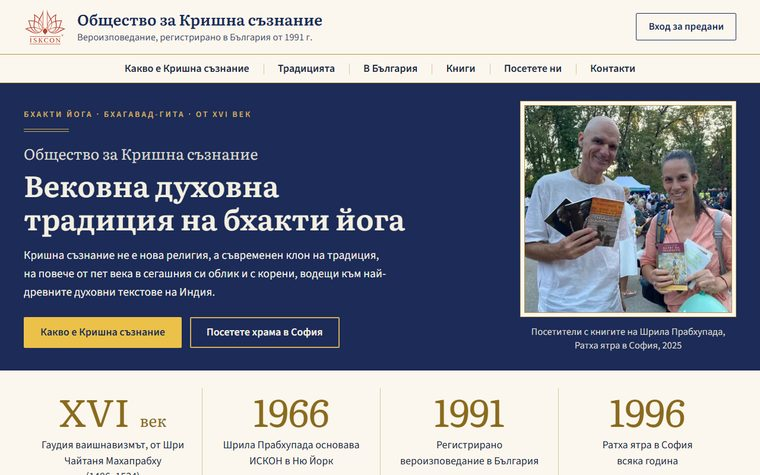
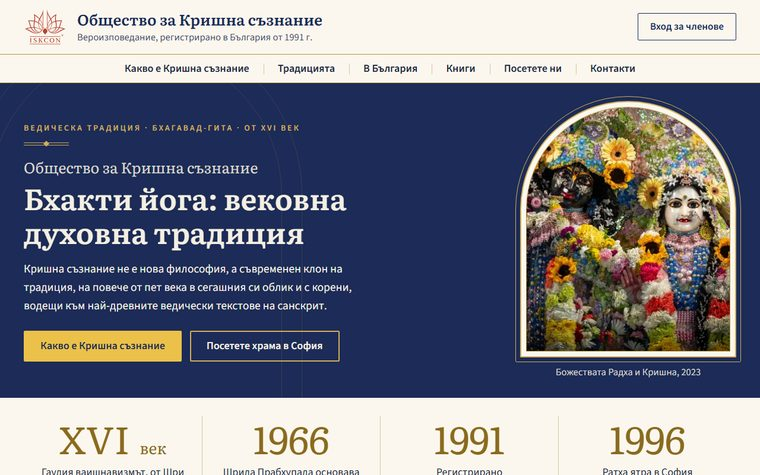
feat(krishnabg): посока 9 по втория отговор на Ралица: арката, заглавието и думите
Защо: Ралица, 21.10.2026: липсва „артистична уникалност“; снимката в първия екран да носи традицията; „Вековна бхакти йога духовна традиция“ или подобно; „философия“ вместо „религия“, „текстове“ вместо „писания“, друго име за „Вход за предани“; Курукшетра и Бхагавад-гита в хронологията; думите „санскрит“ и „ведически“.
Обхват: m9-vekovna-traditsia (index.html, za-nas.html, site.css): арка около олтара в първия екран, свод на синия раздел, ромб в линиите; заглавие „Бхакти йога: вековна духовна традиция“; олтарът в първия екран, книгите в „Традицията“; „Вход за членове“; първа спирка „Кришна и Бхагавад-гита“; index.html (описанието на посока 9), картинките ѝ.
Проверка: lab/run-all.py: НЕ МИНАХА: няма; страницата за сравнение на свободен порт: 70 връзки със 200, архивът скрит до бутона; bg_text_gate МИНА.

diff --git a/m9-vekovna-traditsia/index.html b/m9-vekovna-traditsia/index.html
@@ -3,11 +3,11 @@
 <head>
 <meta charset="utf-8">
 <meta name="viewport" content="width=device-width, initial-scale=1">
-<title>Общество за Кришна съзнание в България: вековна духовна традиция на бхакти йога</title>
+<title>Общество за Кришна съзнание в България: бхакти йога, вековна духовна традиция</title>
 <meta name="description" content="Вероизповедание от традицията на Гаудия ваишнавизма, регистрирано в България от 1991 г. Бхакти йога, Бхагавад-гита, храмът в София, книги и контакти.">
 <meta name="robots" content="noindex, nofollow">
 <meta property="og:type" content="website">
-<meta property="og:title" content="Общество за Кришна съзнание в България: вековна духовна традиция на бхакти йога">
+<meta property="og:title" content="Общество за Кришна съзнание в България: бхакти йога, вековна духовна традиция">
 <meta property="og:description" content="Вероизповедание от традицията на Гаудия ваишнавизма, регистрирано в България от 1991 г. Бхакти йога, Бхагавад-гита, храмът в София, книги и контакти.">
 <meta property="og:locale" content="bg_BG">
 <meta name="theme-color" content="#1C2B57">
@@ -20,7 +20,7 @@
 <header class="top">
 <div class="wrap hdr">
 <a class="brand" href="index.html" aria-label="Общество за Кришна съзнание, начална страница"><img src="assets/iskcon-logo.svg" alt="Лого на ИСКОН" width="72" height="67"><span><span class="nm">Общество за Кришна съзнание</span><span class="rg">Вероизповедание, регистрирано в България от&nbsp;1991&nbsp;г.</span></span></a>
-<a class="btn-line dsk" href="#vhod-predani">Вход за предани</a>
+<a class="btn-line dsk" href="#vhod-predani">Вход за членове</a>
 <details class="menu-m"><summary>Меню</summary>
 <nav class="panel" aria-label="Основна навигация (телефон)"><ul>
 <li><a href="za-nas.html">Какво е Кришна съзнание</a></li>
@@ -29,7 +29,7 @@
 <li><a href="#knigi">Книги</a></li>
 <li><a href="#poseteteni">Посетете ни</a></li>
 <li><a href="#kontakti">Контакти</a></li>
-<li><a href="#vhod-predani">Вход за предани</a></li>
+<li><a href="#vhod-predani">Вход за членове</a></li>
 </ul></nav></details>
 </div>
 <nav class="nav-d" aria-label="Основна навигация"><ul class="wrap">
@@ -45,14 +45,14 @@
 
 <section class="hero" aria-labelledby="h1"><div class="wrap hero-in">
 <div>
-<p class="eyebrow"><span class="nw">Бхакти йога&nbsp;·</span> <span class="nw">Бхагавад-гита&nbsp;·</span> <span class="nw">от XVI век</span></p>
+<p class="eyebrow"><span class="nw">Ведическа традиция&nbsp;·</span> <span class="nw">Бхагавад-гита&nbsp;·</span> <span class="nw">от XVI век</span></p>
 <span class="rule2" aria-hidden="true"></span>
-<h1 id="h1"><span class="h1s">Общество за Кришна съзнание</span><span class="h1b">Вековна духовна традиция на бхакти йога</span></h1>
-<p class="txt">Кришна съзнание не е нова религия, а съвременен клон на традиция, на повече от пет века в сегашния си облик и с корени, водещи към най-древните духовни текстове на Индия.</p>
+<h1 id="h1"><span class="h1s">Общество за Кришна съзнание</span><span class="h1b">Бхакти йога: вековна духовна традиция</span></h1>
+<p class="txt">Кришна съзнание не е нова философия, а съвременен клон на традиция, на повече от пет века в сегашния си облик и с корени, водещи към най-древните ведически текстове на санскрит.</p>
 <div class="btns"><a class="btn btn-y" href="za-nas.html">Какво е Кришна съзнание</a><a class="btn btn-o" href="#poseteteni">Посетете храма в София</a></div>
 </div>
-<figure class="fig"><div class="icon thin"><img src="assets/books-01-350.webp" srcset="assets/books-01-350.webp 350w, assets/books-01-525.webp 525w, assets/books-01-700.webp 700w" sizes="(min-width:900px) 350px, min(350px, calc(100vw - 46px))" alt="Двама усмихнати посетители на Ратха ятра в София показват книги на Шрила Прабхупада" width="350" height="350" fetchpriority="high" decoding="async"></div>
-<figcaption>Посетители с книгите на Шрила Прабхупада, Ратха ятра в София, 2025</figcaption></figure>
+<figure class="fig"><div class="icon arch"><img src="assets/altar-05-340.webp" srcset="assets/altar-05-340.webp 340w, assets/altar-05-520.webp 520w, assets/altar-05-700.webp 700w" sizes="(min-width:900px) 340px, min(340px, calc(100vw - 50px))" alt="Божествата Радха и Кришна, украсени със слънчогледи, маргарити и гирлянди" width="340" height="408" fetchpriority="high" decoding="async"></div>
+<figcaption>Божествата Радха и Кришна, 2023</figcaption></figure>
 </div></section>
 
 <section class="trust" aria-label="Факти и дати"><div class="wrap">
@@ -77,7 +77,7 @@
 <li><strong>Бог е личност.</strong> Вярваме, че Абсолютната Истина в крайна сметка е личност, изпълнена с любов, а не безлична сила.</li>
 <li><strong>Душата е вечна.</strong> Истинското „аз“ не загива със смъртта на тялото.</li>
 <li><strong>Бхакти: пътят на предаността.</strong> Любящото служене на Бога е същината на духовния живот.</li>
-<li><strong>Свещеното слово.</strong> Бхагавад-гита и Шримад Бхагаватам са нашите основни писания.</li>
+<li><strong>Свещеното слово.</strong> Бхагавад-гита и Шримад Бхагаватам са нашите основни текстове.</li>
 <li><strong>Ненасилие и състрадание.</strong> Вегетарианството и грижата за всички същества са естествена част от практиката.</li>
 </ul>
 </div>
@@ -90,15 +90,15 @@
 <div class="trad">
 <div class="trad-main">
 <ol class="stops">
-<li><h3>Кришна</h3><p>Изначалният източник на знанието и древните мъдреци, които го записват и предават.</p></li>
+<li><h3>Кришна и Бхагавад-гита</h3><p>На бойното поле Курукшетра Кришна предава на Арджуна Бхагавад-гита и възстановява прекъснатата традиция на бхакти йога.</p></li>
 <li><h3>Шри Чайтаня Махапрабху <span class="nw">(1486–1534)</span></h3><p>Възражда пътя на бхакти и движението на санкиртана в Бенгал.</p></li>
 <li><h3>Шрила Прабхупада <span class="nw">(1896–1977)</span></h3><p>По указание на своя учител пренася Кришна съзнание на Запад и основава <abbr title="Международно общество за Кришна съзнание">ИСКОН</abbr>.</p></li>
 <li><h3>България, 1991</h3><p>Регистрирано вероизповедание.</p></li>
 </ol>
 <blockquote class="quote"><span class="rule2" aria-hidden="true"></span><p>„Истинската религия означава да опознаем Бога и да Го обикнем, а средството за това в нашата епоха е възпяването на светите Му имена.“</p></blockquote>
 </div>
-<figure class="fig fig-alt"><div class="icon"><img src="assets/altar-05-340.webp" srcset="assets/altar-05-340.webp 340w, assets/altar-05-520.webp 520w, assets/altar-05-700.webp 700w" sizes="(min-width:900px) 340px, min(340px, calc(100vw - 50px))" alt="Божествата Радха и Кришна, украсени със слънчогледи, маргарити и гирлянди" width="340" height="408" loading="lazy" decoding="async"></div>
-<figcaption>Божествата Радха и Кришна, 2023</figcaption></figure>
+<figure class="fig fig-alt"><div class="icon thin"><img src="assets/books-01-350.webp" srcset="assets/books-01-350.webp 350w, assets/books-01-525.webp 525w, assets/books-01-700.webp 700w" sizes="(min-width:900px) 350px, min(350px, calc(100vw - 46px))" alt="Двама усмихнати посетители на Ратха ятра в София показват книги на Шрила Прабхупада" width="350" height="350" loading="lazy" decoding="async"></div>
+<figcaption>Книгите на Шрила Прабхупада предават знанието нататък: посетители на Ратха ятра в София, 2025</figcaption></figure>
 </div>
 </div></section>
 
@@ -133,7 +133,7 @@
 <div class="sh"><p class="eyebrow">За търсещите</p><span class="rule2" aria-hidden="true"></span><h2>Често задавани въпроси</h2></div>
 <div class="faq">
 <details open><summary>Кришна съзнание религия ли е, или начин на живот?</summary><div class="a"><p>И двете. Кришна съзнание е пълноценно монотеистично вероизповедание със свое богословие, практика и свещени текстове, което същевременно се изразява в цялостен начин на живот.</p></div></details>
-<details><summary>Трябва ли да съм индиец или да приема индийската култура?</summary><div class="a"><p>Не. Изповеданието е открито за всеки човек, независимо от произход. То не изисква приемане на чужда култура, а съживяване на вродената връзка на душата с Бога.</p></div></details>
+<details><summary>Трябва ли да съм индиец или да приема индийската култура?</summary><div class="a"><p>Не. Кришна съзнание е открито за всеки човек, независимо от произход. То не изисква приемане на чужда култура, а съживяване на вродената връзка на душата с Бога.</p></div></details>
 <details><summary>В колко богове вярвате?</summary><div class="a"><p>В един. Признаваме един-единствен Върховен Бог, който има безброй имена и форми. „Кришна“ е едно от имената Му, означаващо „всепривличащият“.</p></div></details>
 <details><summary>Трябва ли да се откажа от своята религия?</summary><div class="a"><p>Кришна съзнанието не противоречи на искреното следване на която и да е автентична религия, напротив, уважава всеки път, който води човека към любов към Бога.</p></div></details>
 <details><summary>Мога ли да посетя център, без да съм член?</summary><div class="a"><p>Разбира се. Програмите, лекциите и класовете са открити за гости. Заповядайте, за да се запознаете отблизо с традицията.</p></div></details>
@@ -143,7 +143,7 @@
 
 <section class="sec cream" id="knigi"><div class="wrap">
 <div class="sh"><p class="eyebrow">Книги</p><span class="rule2" aria-hidden="true"></span><h2>Свещената литература</h2>
-<p class="lead">Книгите на Шрила Прабхупада, издавани от Бхактиведанта бук тръст, са основата на нашето изповедание. Открийте Бхагавад-гита, Шримад Бхагаватам и десетки други заглавия на български език.</p></div>
+<p class="lead">Книгите на Шрила Прабхупада, издавани от Бхактиведанта бук тръст, са основата на нашата философия. Открийте Бхагавад-гита, Шримад Бхагаватам и десетки други заглавия на български език.</p></div>
 <ul class="books">
 <li><h3>Бхагавад-гита каквато е</h3><p>Най-известният и почитан духовен текст на Индия (разговорът между Кришна и Арджуна) с пълен санскритски текст, превод и подробен коментар на Шрила Прабхупада.</p></li>
 <li><h3>Шримад Бхагаватам</h3><p>„Зрелият плод на ведическото дърво на знанието.“ Многотомно издание с превод и коментар, разкриващо науката за Бога и пътя на чистата преданост.</p></li>
@@ -199,8 +199,8 @@
 <li><a href="#poseteteni">Посетете ни</a></li>
 <li><a href="#kontakti">Контакти</a></li>
 </ul></nav>
-<p class="fvhod" id="vhod-predani">Вход за предани: в подготовка.</p>
-<div class="fine"><p>Снимки: ИСКОН София (iskconsofia.com)</p><p>Прототип за обсъждане, 18.10.2026</p></div>
+<p class="fvhod" id="vhod-predani">Вход за членове: в подготовка.</p>
+<div class="fine"><p>Снимки: ИСКОН София (iskconsofia.com)</p><p>Прототип за обсъждане, 23.10.2026</p></div>
 </div></footer>
 </body>
 </html>

diff --git a/m9-vekovna-traditsia/za-nas.html b/m9-vekovna-traditsia/za-nas.html
@@ -4,11 +4,11 @@
 <meta charset="utf-8">
 <meta name="viewport" content="width=device-width, initial-scale=1">
 <title>Какво е Кришна съзнание | Общество за Кришна съзнание</title>
-<meta name="description" content="Кришна съзнание означава да живеем с осъзнаване на връзката си с Бога. Основите на учението накратко: Бог, душата, бхакти и свещените писания.">
+<meta name="description" content="Кришна съзнание означава да живеем с осъзнаване на връзката си с Бога. Основите на учението накратко: Бог, душата, бхакти и свещените текстове.">
 <meta name="robots" content="noindex, nofollow">
 <meta property="og:type" content="website">
 <meta property="og:title" content="Какво е Кришна съзнание | Общество за Кришна съзнание">
-<meta property="og:description" content="Кришна съзнание означава да живеем с осъзнаване на връзката си с Бога. Основите на учението накратко: Бог, душата, бхакти и свещените писания.">
+<meta property="og:description" content="Кришна съзнание означава да живеем с осъзнаване на връзката си с Бога. Основите на учението накратко: Бог, душата, бхакти и свещените текстове.">
 <meta property="og:locale" content="bg_BG">
 <meta name="theme-color" content="#1C2B57">
 <link rel="icon" type="image/png" href="assets/favicon-iskcon.png">
@@ -20,7 +20,7 @@
 <header class="top">
 <div class="wrap hdr">
 <a class="brand" href="index.html" aria-label="Общество за Кришна съзнание, начална страница"><img src="assets/iskcon-logo.svg" alt="Лого на ИСКОН" width="72" height="67"><span><span class="nm">Общество за Кришна съзнание</span><span class="rg">Вероизповедание, регистрирано в България от&nbsp;1991&nbsp;г.</span></span></a>
-<a class="btn-line dsk" href="#vhod-predani">Вход за предани</a>
+<a class="btn-line dsk" href="#vhod-predani">Вход за членове</a>
 <details class="menu-m"><summary>Меню</summary>
 <nav class="panel" aria-label="Основна навигация (телефон)"><ul>
 <li><a href="za-nas.html" aria-current="page">Какво е Кришна съзнание</a></li>
@@ -29,7 +29,7 @@
 <li><a href="index.html#knigi">Книги</a></li>
 <li><a href="index.html#poseteteni">Посетете ни</a></li>
 <li><a href="#kontakti">Контакти</a></li>
-<li><a href="#vhod-predani">Вход за предани</a></li>
+<li><a href="#vhod-predani">Вход за членове</a></li>
 </ul></nav></details>
 </div>
 <nav class="nav-d" aria-label="Основна навигация"><ul class="wrap">
@@ -58,14 +58,14 @@
 </aside>
 <div class="rest">
 <p>„Кришна“ е едно от имената на Бога в санскритската традиция и означава „всепривличащият“: този, който е източник на всичко и притежава в пълнота красотата, силата, славата, богатството, знанието и отречението. Да си в „Кришна съзнание“ не означава да приемеш чужда култура, а да съживиш нещо вродено: всяка душа по природа е свързана с Бога и търси трайно щастие, което материалният свят не може да даде.</p>
-<p>Нашето изповедание учи, че живото същество не е тялото, а вечна духовна искра: душа, която преминава през различни тела и прераждания, водена от закона на кармата. Целта на човешкия живот е да се събуди от това забравяне и да възстанови любящата си връзка с Бога. Методът, който традицията предлага за днешната епоха, е изненадващо прост и достъпен: възпяването на светите имена на Бога, особено на маха-мантрата „Харе Кришна“.</p>
+<p>Нашата философия учи, че живото същество не е тялото, а вечна духовна искра: душа, която преминава през различни тела и прераждания, водена от закона на кармата. Целта на човешкия живот е да се събуди от това забравяне и да възстанови любящата си връзка с Бога. Методът, който традицията предлага за днешната епоха, е изненадващо прост и достъпен: възпяването на светите имена на Бога, особено на маха-мантрата „Харе Кришна“.</p>
 <p>Кришна съзнанието е монотеистична традиция: признаваме един-единствен Върховен Бог, който има безброй имена и форми. То не противоречи на искреното следване на която и да е автентична религия, напротив, уважава всеки път, който води човека към любов към Бога. Същевременно е цялостна духовна наука със свое богословие, етика, практика и начин на живот, предадени през непрекъсната верига от учители.</p>
 <h2>Какво ни отличава</h2>
 <ul class="dia">
 <li><strong>Бог е личност.</strong> Вярваме, че Абсолютната Истина в крайна сметка е личност, изпълнена с любов, а не безлична сила.</li>
 <li><strong>Душата е вечна.</strong> Истинското „аз“ не загива със смъртта на тялото.</li>
 <li><strong>Бхакти: пътят на предаността.</strong> Любящото служене на Бога е същината на духовния живот.</li>
-<li><strong>Свещеното слово.</strong> Бхагавад-гита и Шримад Бхагаватам са нашите основни писания.</li>
+<li><strong>Свещеното слово.</strong> Бхагавад-гита и Шримад Бхагаватам са нашите основни текстове.</li>
 <li><strong>Ненасилие и състрадание.</strong> Вегетарианството и грижата за всички същества са естествена част от практиката.</li>
 </ul>
 <p class="gofaq"><a class="btn-line" href="index.html#vaprosi">Често задавани въпроси</a></p>
@@ -93,8 +93,8 @@
 <li><a href="index.html#poseteteni">Посетете ни</a></li>
 <li><a href="#kontakti">Контакти</a></li>
 </ul></nav>
-<p class="fvhod" id="vhod-predani">Вход за предани: в подготовка.</p>
-<div class="fine"><p>Снимки: ИСКОН София (iskconsofia.com)</p><p>Прототип за обсъждане, 18.10.2026</p></div>
+<p class="fvhod" id="vhod-predani">Вход за членове: в подготовка.</p>
+<div class="fine"><p>Снимки: ИСКОН София (iskconsofia.com)</p><p>Прототип за обсъждане, 23.10.2026</p></div>
 </div></footer>
 </body>
 </html>

diff --git a/index.html b/index.html
@@ -79,11 +79,11 @@ footer{padding:2rem 0 5rem}
 </header>
 <main id="main">
   <section class="featured wrap" aria-labelledby="new-h">
-    <h2 id="new-h">Нова посока по бележките на Ралица (18.10.2026)</h2>
+    <h2 id="new-h">Нова посока по бележките на Ралица (18.10.2026, обновена на 23.10.2026)</h2>
     <ul class="why">
-      <li><b>За 10 секунди:</b> вековна духовна традиция на бхакти йога, регистрирано вероизповедание от 1991 г., част от ИСКОН от 1966 г., Ратха ятра в София от 1996 г.</li>
-      <li><b>Синьо, жълто и злато:</b> цветовете от традицията, спокойни, с много въздух.</li>
-      <li><b>Спокойни снимки:</b> олтарът в златна рамка, шествието, публиката и книгите; без танци и тълпи в първия екран.</li>
+      <li><b>За 10 секунди:</b> „Бхакти йога: вековна духовна традиция“, регистрирано вероизповедание от 1991 г., част от ИСКОН от 1966 г., Ратха ятра в София от 1996 г.</li>
+      <li><b>Синьо, жълто и злато, и арката:</b> олтарът в първия екран е в златна арка като в ниша, а синият раздел „Традицията“ започва със свод.</li>
+      <li><b>Снимки:</b> олтарът в първия екран, книгите в „Традицията“, шествието и публиката в „В България“; без танци и тълпи.</li>
       <li><b>Доверие:</b> правният статут, въпросите на хората и линията на учителите са на началната страница.</li>
     </ul>
     <div class="board" id="featured-board"></div>

diff --git a/m9-vekovna-traditsia/assets/site.css b/m9-vekovna-traditsia/assets/site.css
@@ -297,3 +297,18 @@ ul,ol,dl,dd{margin:0;padding:0}
 /* Обикновените форми на кирилицата (не българските) за широка, непозната публика.
    Съкратеното „font:“ нулира font-feature-settings, затова правилото е последно и с !important. */
 *,*::before,*::after{font-feature-settings:"locl" 0 !important}
+
+/* Арката: подписът на посоката (форма от храма и от църквата: ниша, свод) */
+.icon.arch{position:relative;padding:8px;border-radius:999px 999px 6px 6px}
+.icon.arch img{border-radius:999px 999px 2px 2px}
+.icon.arch::after{content:"";position:absolute;inset:-10px;border:1px solid var(--gold-b);border-radius:999px 999px 12px 12px;pointer-events:none}
+.hero{position:relative;overflow:hidden}
+.hero::before,.hero::after{content:"";position:absolute;pointer-events:none;border:1px solid rgba(210,174,90,.16);border-radius:999px 999px 0 0;bottom:-2px}
+.hero::before{left:-4%;width:min(46vw,560px);height:118%}
+.hero::after{left:calc(-4% + 34px);width:calc(min(46vw,560px) - 68px);height:calc(118% - 34px)}
+.hero-in{position:relative;z-index:1}
+.sec.blue{position:relative}
+.sec.blue::before{content:"";position:absolute;left:0;right:0;top:calc(-1 * clamp(36px,6vw,90px) + 1px);height:clamp(36px,6vw,90px);background:var(--blue);border-radius:50% 50% 0 0 / 100% 100% 0 0;pointer-events:none}
+.rule2{position:relative}
+.rule2::after{content:"";position:absolute;left:50%;top:50%;width:7px;height:7px;transform:translate(-50%,-50%) rotate(45deg);background:var(--gold-line)}
+.blue .rule2::after,.hero .rule2::after,.band .rule2::after{background:var(--gold-b)}
